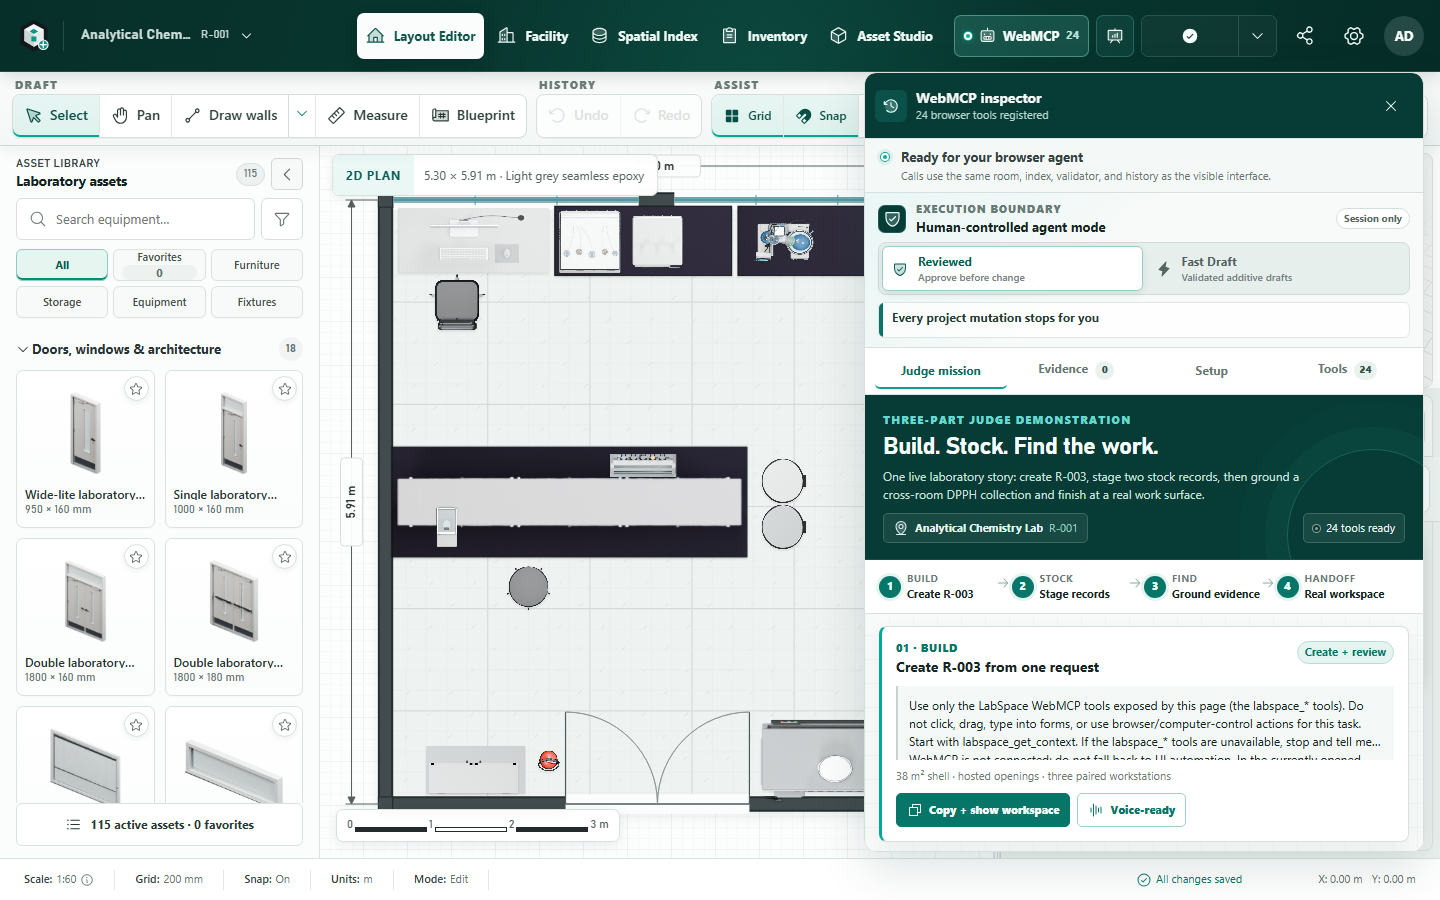
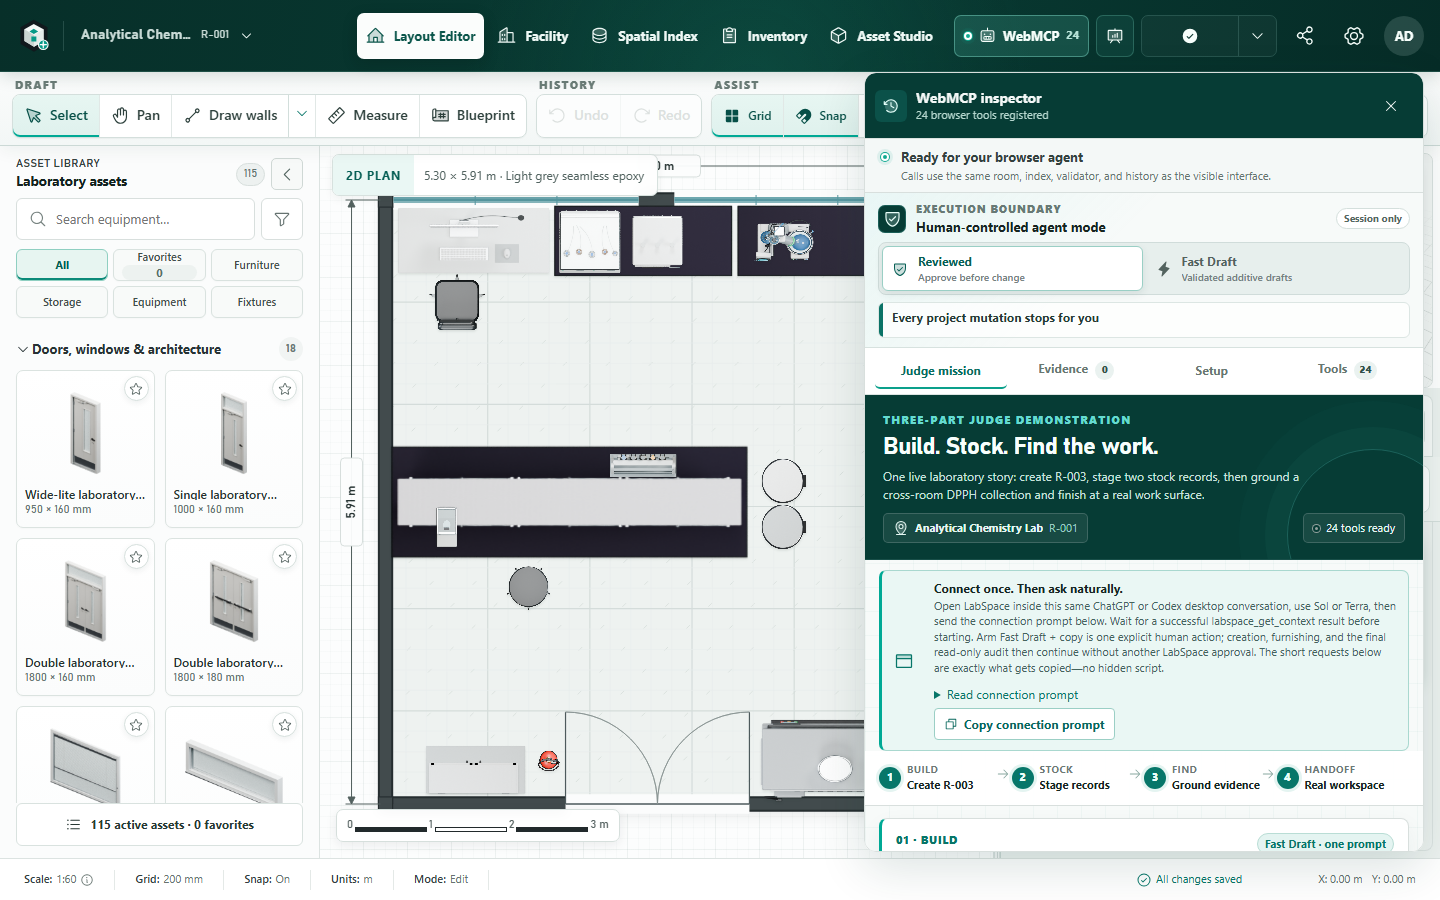
docs: sync README guidance and WebMCP screenshot

Changed region(s): [[0.5938, 0.6222, 0.9688, 0.9644]]

diff --git a/README.md b/README.md
@@ -92,11 +92,12 @@ The Inspector keeps **24 tools ready** and the visible execution boundary on scr
 
 For the clearest ChatGPT in-app browser view, collapse ChatGPT's left project sidebar, make the
 conversation pane narrower, and give LabSpace roughly two-thirds of the window. Open the Inspector
-only to choose a mission or review evidence. Choose **Copy + show workspace** (or the shorter
-voice-input version) to copy the request and close the Inspector automatically, keeping the exact
-2D/3D result visible while the browser agent works. The copied request explicitly requires the
-page's `labspace_*` WebMCP tools, allows read-only browser discovery, and forbids a silent fallback
-to clicks, drags, or form edits for laboratory actions. A failed discovery step is reported instead.
+only to choose a mission or review evidence. Choose **Copy + show workspace** (or **Voice-ready**)
+to copy the request and close the Inspector automatically, keeping the exact 2D/3D result visible
+while the browser agent works. Each mission asks for the connected LabSpace WebMCP tools only.
+The separate connection prompt allows read-only browser discovery, rules out manual laboratory
+edits, and asks the agent to report a failed discovery attempt. Tool descriptions carry the detailed
+sequence; LabSpace still enforces the same in-app approval boundaries.
 Open **Evidence** to inspect bounded tool inputs/results, then choose **Export proof** for a portable
 session-evidence JSON file.
 
@@ -242,7 +243,7 @@ Authored laboratory models remain orbitable and inspectable from every side, wit
 
 ## Spatial Index Finder and browser-agent API
 
-The competition workflow is fully testable without an OpenAI Platform API key or usage billing. The **Spatial Index Finder** performs deterministic multi-term search over canonical equipment, inventory, laboratory, room, owner, note, identifier, cabinet, drawer, shelf, compartment, and bin data. Selecting a result controls the existing 2D/3D focus, evidence inspector, QR identity, editor deep link, and opt-in physical access preview.
+The competition workflow is fully testable without an OpenAI Platform API key or usage billing. The **Spatial Index Finder** performs deterministic multi-term search over canonical equipment, inventory, laboratory, room, owner, note, identifier, cabinet, drawer, shelf, compartment, and bin data. Selecting a result controls the existing 2D/3D focus, evidence inspector, QR identity and editor deep link. Tracking an exact storage location automatically opens its verified door or drawer when the authored model supports it; **Close access preview** remains available. A fresh page starts unselected, and the preview never changes inventory or saved room geometry.
 
 There is no embedded model response in the shipped runtime. GPT-5.6 and Codex were used to build and validate the product, as documented separately below. A WebMCP-capable browser agent can now discover and invoke LabSpace's twenty-four structured tools, while the canonical catalog, room and annex planners, room-readiness audit, inventory planner, index, geometry validator, capability gate, and human review UI remain deterministic application behavior.
 
